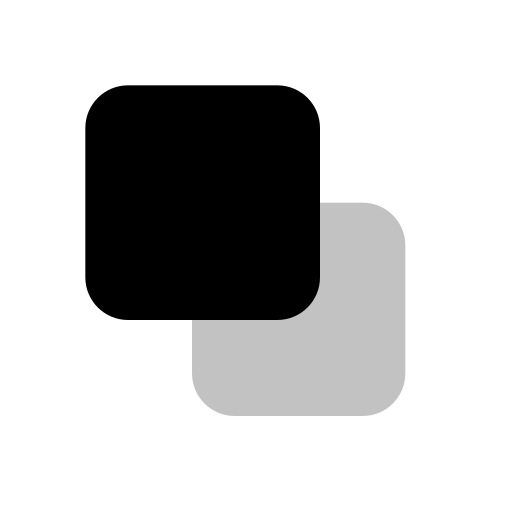
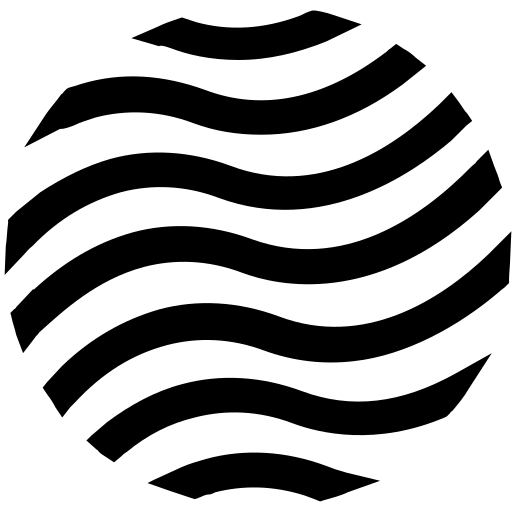
Generated website updates for version: 2

diff --git a/src/lib/components/Logo.svelte b/src/lib/components/Logo.svelte
@@ -3,7 +3,13 @@
 	const props: HTMLAttributes<SVGSVGElement> = $props();
 </script>
 
-<svg viewBox="0 0 24 24" fill="none" xmlns="http://www.w3.org/2000/svg" class="" {...props}>
-	<rect x="4" y="4" width="11" height="11" rx="2" fill="currentColor" />
-	<rect x="9" y="9.5" width="10" height="10" rx="2" fill="currentColor" fill-opacity="0.24" />
+<svg viewBox="0 0 97 93" fill="none" xmlns="http://www.w3.org/2000/svg" class="" {...props}>
+<path d="M57.1677 72.0913C49.5314 69.2599 41.6772 68.8244 34.4772 70.7844C29.459 72.0913 24.6592 74.7049 20.2956 77.9719L17.2411 80.5855L16.3684 81.4566L18.332 83.1991C18.5502 83.1991 18.5502 83.4169 18.7684 83.6347C19.2047 84.0702 19.6411 84.288 20.2956 84.7236L21.6047 85.5947L22.9137 84.5058C23.1319 84.288 23.5683 83.8524 24.0046 83.6347C27.9319 80.3677 32.2953 78.1897 36.8772 77.1008C42.768 75.576 49.0951 75.7938 55.4222 78.1897C60.6585 80.1499 71.3493 82.5455 84.2217 77.1008L84.6581 76.8827L85.3128 76.2294C85.3128 76.0116 85.5309 76.0116 85.7491 75.7938C86.8399 74.4871 87.9309 73.1802 88.8036 71.6557L93.167 64.9038L86.1854 68.8241C75.9309 74.4869 66.5493 75.576 57.1677 72.0913Z" fill="currentColor"/>
+<path d="M27.2782 48.5694C33.169 47.0449 39.4961 47.2627 45.8235 49.6585C52.8051 52.2721 70.6957 55.9746 90.7681 37.8974L95.1317 33.5413L94.6952 32.4524C94.477 31.5812 94.0407 30.4921 93.6044 29.4032L92.5136 26.354L90.3317 28.5318C90.1136 28.9676 89.6773 29.1854 89.2407 29.621C79.641 39.4218 64.8049 49.4407 47.7869 43.3424C40.1509 40.511 32.2964 40.0752 25.0964 42.0355C18.1148 43.9957 12.0058 47.6982 6.33317 52.9255V52.7077L3.0605 56.1924C3.0605 56.4102 2.84236 56.4102 2.62418 56.628L1.9696 57.2813L2.1878 58.1527C2.40597 59.2416 2.84232 60.3305 3.0605 61.4197L4.36959 64.9044L6.55135 62.073C6.76954 61.6374 7.20588 61.4197 7.42407 60.9841C12.0058 56.8458 18.333 50.9652 27.2782 48.5694Z" fill="currentColor"/>
+<path d="M6.11498 44.6486C11.1331 39.4214 16.8057 36.1544 22.9147 34.4119C28.8055 32.8874 35.1327 33.1052 41.4598 35.5011C61.0959 42.6883 78.1138 30.9272 85.5317 24.611L88.368 21.7796L89.4591 20.9085L88.5862 19.6016C87.9317 18.9482 87.4954 18.0771 86.8409 17.2057L85.5317 15.4635L84.0046 16.988C83.7864 17.2058 83.3501 17.6413 83.1317 17.8593C73.9683 26.5713 59.7867 35.5011 43.6416 29.4027C36.0053 26.5713 28.1511 26.1355 20.9511 28.0958C16.3693 29.4027 12.0058 31.5805 7.6422 34.4119L3.06044 38.1147C2.62409 38.5502 2.40591 38.768 1.96955 39.2036L1.53324 39.6391V40.2925C1.31506 41.8172 1.31503 43.3417 1.09685 44.6486L0.878662 50.0936L4.58772 46.1731C5.02406 45.7375 5.46045 45.0841 6.11498 44.6486Z" fill="currentColor"/>
+<path d="M63.4966 86.9017C62.8421 86.6839 62.4058 86.4659 61.7513 86.2481C54.115 83.4167 46.2605 82.9812 39.0605 84.9414C37.5334 85.377 36.0062 85.8126 34.4789 86.4662L29.2426 88.8617L27.9336 89.5153L32.297 91.0398C33.6062 91.4754 34.9152 91.9112 36.2244 92.3467L36.8789 92.5645L37.5334 92.3467C38.1878 92.1289 38.8426 91.6931 39.497 91.6931C39.9334 91.6931 40.3697 91.4754 40.806 91.2576C46.0423 89.9509 51.715 89.9509 57.8239 91.9109C58.4784 92.1289 58.915 92.3467 59.5694 92.5645L60.6602 93.0001L61.3147 92.7823C62.8421 92.3467 64.5874 91.9112 65.8966 91.2576L72.0055 89.0798L65.6784 87.5551C65.0239 87.3373 64.151 87.1195 63.4966 86.9017Z" fill="currentColor"/>
+<path d="M96.8786 41.8175L93.606 45.0845C93.1697 45.52 92.7333 45.9556 92.297 46.3912C83.3517 54.8853 68.952 64.0329 52.8067 57.9345C45.1704 55.1031 37.3161 54.6676 30.1161 56.6278C23.3527 58.5881 17.2436 62.0728 11.7892 67.3001L8.95289 70.3492L8.0802 71.4382L8.95289 72.7448C9.60744 73.6162 10.0438 74.2695 10.4802 75.1407L11.7892 77.1009L13.3164 75.1407C13.5346 74.9229 13.971 74.4873 14.1892 74.2696C19.4254 68.6068 25.098 65.122 31.6435 63.3795C37.5343 61.8548 43.8614 62.0728 50.1885 64.4684C55.643 66.4287 61.3157 67.082 66.9883 66.4287C77.0244 65.3398 87.0607 59.677 94.4786 53.3609C94.9152 52.9253 95.3513 52.7075 95.7878 52.2717L96.4423 51.6184V50.965C96.4423 49.6581 96.6605 48.1336 96.6605 46.8267L96.8786 41.8175Z" fill="currentColor"/>
+<path d="M13.9676 21.7804C15.2766 21.1268 16.8039 20.6913 18.113 20.2557C24.0038 18.731 30.3309 18.9488 36.6581 21.3446C40.8036 22.8693 44.9489 23.5227 49.5307 23.5227C58.6941 23.5227 67.8576 20.2557 76.3665 13.9396L80.73 10.4547L78.7665 8.9301C78.1121 8.27668 77.2392 7.62331 76.3665 7.18772L75.0573 6.31653L73.9665 7.18772C73.5302 7.40553 73.312 7.84112 72.8757 8.0589C61.3123 16.771 49.7489 19.1668 38.8399 15.0285C30.9854 12.1971 23.1311 11.5437 15.2766 13.9396C14.6221 14.1573 13.9676 14.3751 13.0949 14.5929L12.6586 14.8107L12.004 15.464C12.004 15.6818 11.7858 15.6818 11.5677 15.8996C10.6949 17.2065 9.60403 18.2954 8.73131 19.6024L4.58594 25.9185L11.3495 22.4338C12.4403 22.4338 13.313 21.9982 13.9676 21.7804Z" fill="currentColor"/>
+<path d="M31.8601 6.96955L32.5145 7.18736C35.3509 8.27636 39.7145 9.36534 45.1688 9.36534C50.8414 9.36534 56.2959 8.05853 61.7504 5.88055L68.5138 2.61357L63.9322 1.089C62.6233 0.653391 61.3141 0.217805 59.7867 0H59.1322L58.4777 0.217757C57.8233 0.435538 57.1685 0.871196 56.5141 1.089C49.9688 3.48479 43.4235 3.9204 37.0964 2.178C36.4417 1.9602 35.7872 1.74237 35.1327 1.52456L34.4782 1.30676L33.8235 1.52456C32.5145 1.96015 31.2056 2.39578 29.8964 3.04918L24.8783 5.22718L30.1145 6.75172C30.5509 6.53394 31.2056 6.75175 31.8601 6.96955Z" fill="currentColor"/>
 </svg>
+

diff --git a/src/app.css b/src/app.css
@@ -1,4 +1,4 @@
-@import url("https://fonts.googleapis.com/css2?family=Inter:wght@300;400;500;600;700&display=swap");
+@import url("https://fonts.googleapis.com/css2?family=Funnel+Sans:wght@300;400;500;600;700&display=swap");
 @import "tailwindcss";
 @import "./base.css";
 @import "./typography.css";
@@ -29,20 +29,20 @@
 --color-primary-800: oklch(0.424 0.199 265.638);
 --color-primary-900: oklch(0.379 0.146 265.522);
 --color-primary-950: oklch(0.282 0.091 267.935);
---color-secondary-50: oklch(0.984 0.019 200.873);
---color-secondary-100: oklch(0.956 0.045 203.388);
---color-secondary-200: oklch(0.917 0.08 205.041);
---color-secondary-300: oklch(0.865 0.127 207.078);
---color-secondary-400: oklch(0.789 0.154 211.53);
---color-secondary-500: oklch(0.715 0.143 215.221);
---color-secondary-600: oklch(0.609 0.126 221.723);
---color-secondary-700: oklch(0.52 0.105 223.128);
---color-secondary-800: oklch(0.45 0.085 224.283);
---color-secondary-900: oklch(0.398 0.07 227.392);
---color-secondary-950: oklch(0.302 0.056 229.695);
+--color-secondary-50: oklch(0.987 0.022 95.277);
+--color-secondary-100: oklch(0.962 0.059 95.617);
+--color-secondary-200: oklch(0.924 0.12 95.746);
+--color-secondary-300: oklch(0.879 0.169 91.605);
+--color-secondary-400: oklch(0.828 0.189 84.429);
+--color-secondary-500: oklch(0.769 0.188 70.08);
+--color-secondary-600: oklch(0.666 0.179 58.318);
+--color-secondary-700: oklch(0.555 0.163 48.998);
+--color-secondary-800: oklch(0.473 0.137 46.201);
+--color-secondary-900: oklch(0.414 0.112 45.904);
+--color-secondary-950: oklch(0.279 0.077 45.635);
 
 /* Typography */
---font-family: "Inter";
+--font-family: "Funnel Sans";
 --font-fallback: ui-sans-serif, system-ui, -apple-system, BlinkMacSystemFont, "Segoe UI", Roboto, "Helvetica Neue", Arial, "Noto Sans", sans-serif, "Apple Color Emoji", "Segoe UI Emoji", "Segoe UI Symbol", "Noto Color Emoji";
 --font-body: var(--font-family), var(--font-fallback);
 --font-display: var(--font-body);

diff --git a/src/theme.css b/src/theme.css
@@ -44,7 +44,7 @@
 	--color-sidebar-ring: var(--color-primary-600);
 
 	/* ALWAYS use REMs */
-	--radius: 0.75rem !important;
+	--radius: 0.5rem !important;
 	--radius-xs: calc(var(--radius) / 4);
 	--radius-sm: calc(var(--radius) / 2);
 	--radius-md: calc(var(--radius) / 1.5);
